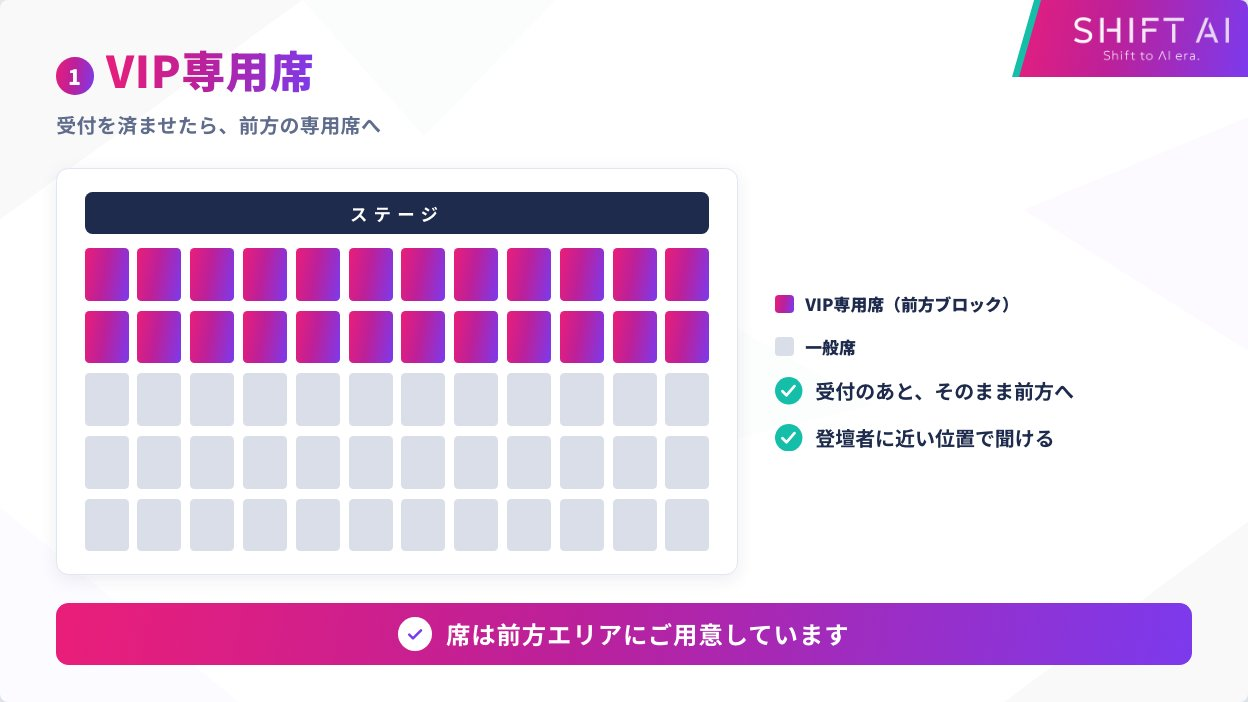
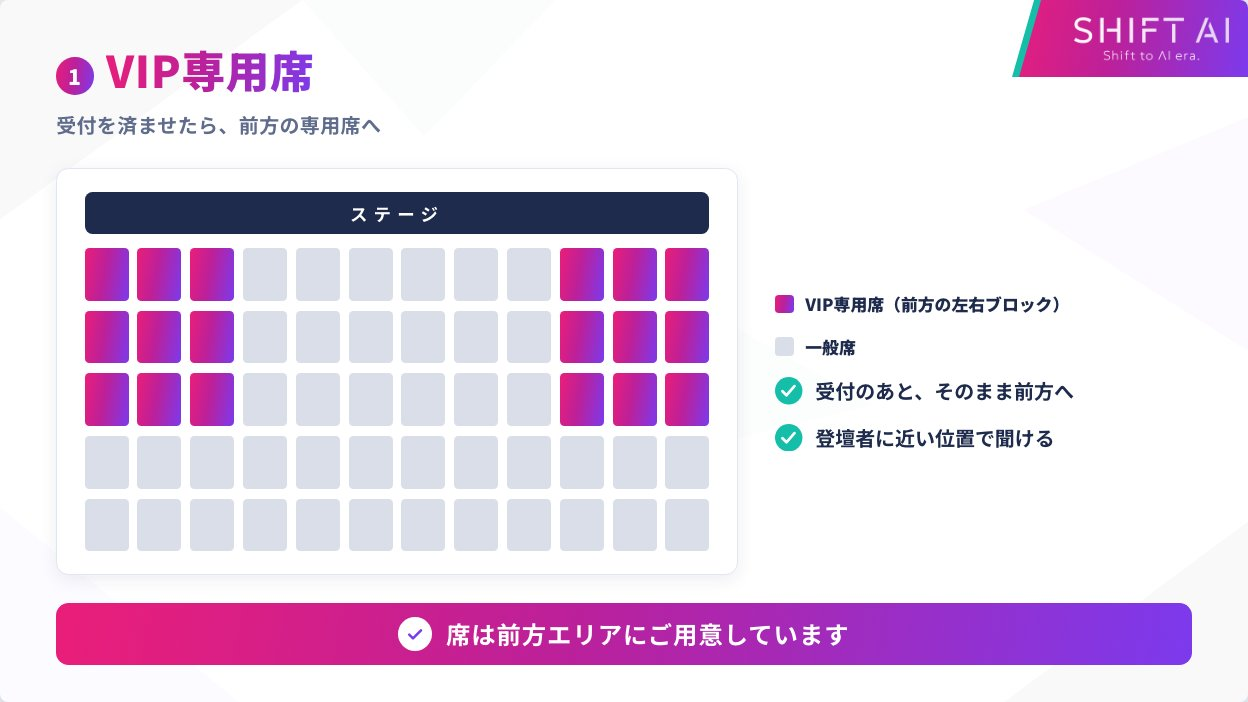
VIP seats split into left/right front blocks per venue layout

Changed region(s): [[0.0625, 0.3291, 0.5938, 0.6282], [0.75, 0.4188, 0.8438, 0.4487]]

diff --git a/index.html b/index.html
@@ -122,7 +122,7 @@
   .rows{display:flex;flex-direction:column;gap:.8cqw;flex:1}
   .srow{display:grid;grid-template-columns:repeat(12,1fr);gap:.7cqw;flex:1}
   .seat{border-radius:.35cqw;background:#D9DEE9}
-  .srow.vip .seat{background:var(--grad)}
+  .seat.v{background:var(--grad)}
   .blocklabel{display:flex;align-items:center;gap:.9cqw;font-size:1.35cqw;font-weight:900}
   .blocklabel .sw{width:1.5cqw;height:1.5cqw;border-radius:.3cqw}
   .seatside{flex:1 1 0;display:flex;flex-direction:column;gap:1.4cqw;justify-content:center}
@@ -285,15 +285,15 @@
       <div class="venue card">
         <div class="stage">ステージ</div>
         <div class="rows">
-          <div class="srow vip"><div class="seat"></div><div class="seat"></div><div class="seat"></div><div class="seat"></div><div class="seat"></div><div class="seat"></div><div class="seat"></div><div class="seat"></div><div class="seat"></div><div class="seat"></div><div class="seat"></div><div class="seat"></div></div>
-          <div class="srow vip"><div class="seat"></div><div class="seat"></div><div class="seat"></div><div class="seat"></div><div class="seat"></div><div class="seat"></div><div class="seat"></div><div class="seat"></div><div class="seat"></div><div class="seat"></div><div class="seat"></div><div class="seat"></div></div>
-          <div class="srow"><div class="seat"></div><div class="seat"></div><div class="seat"></div><div class="seat"></div><div class="seat"></div><div class="seat"></div><div class="seat"></div><div class="seat"></div><div class="seat"></div><div class="seat"></div><div class="seat"></div><div class="seat"></div></div>
+          <div class="srow"><div class="seat v"></div><div class="seat v"></div><div class="seat v"></div><div class="seat"></div><div class="seat"></div><div class="seat"></div><div class="seat"></div><div class="seat"></div><div class="seat"></div><div class="seat v"></div><div class="seat v"></div><div class="seat v"></div></div>
+          <div class="srow"><div class="seat v"></div><div class="seat v"></div><div class="seat v"></div><div class="seat"></div><div class="seat"></div><div class="seat"></div><div class="seat"></div><div class="seat"></div><div class="seat"></div><div class="seat v"></div><div class="seat v"></div><div class="seat v"></div></div>
+          <div class="srow"><div class="seat v"></div><div class="seat v"></div><div class="seat v"></div><div class="seat"></div><div class="seat"></div><div class="seat"></div><div class="seat"></div><div class="seat"></div><div class="seat"></div><div class="seat v"></div><div class="seat v"></div><div class="seat v"></div></div>
           <div class="srow"><div class="seat"></div><div class="seat"></div><div class="seat"></div><div class="seat"></div><div class="seat"></div><div class="seat"></div><div class="seat"></div><div class="seat"></div><div class="seat"></div><div class="seat"></div><div class="seat"></div><div class="seat"></div></div>
           <div class="srow"><div class="seat"></div><div class="seat"></div><div class="seat"></div><div class="seat"></div><div class="seat"></div><div class="seat"></div><div class="seat"></div><div class="seat"></div><div class="seat"></div><div class="seat"></div><div class="seat"></div><div class="seat"></div></div>
         </div>
       </div>
       <div class="seatside">
-        <div class="blocklabel"><span class="sw" style="background:var(--grad)"></span>VIP専用席（前方ブロック）</div>
+        <div class="blocklabel"><span class="sw" style="background:var(--grad)"></span>VIP専用席（前方の左右ブロック）</div>
         <div class="blocklabel"><span class="sw" style="background:#D9DEE9"></span>一般席</div>
         <div class="pointrow">
           <svg class="tealck" viewBox="0 0 24 24" aria-hidden="true"><circle cx="12" cy="12" r="12" fill="#15BEA9"/><path d="M6.5 12.5l3.5 3.5 7-8" stroke="#fff" stroke-width="2.4" fill="none" stroke-linecap="round" stroke-linejoin="round"/></svg>
